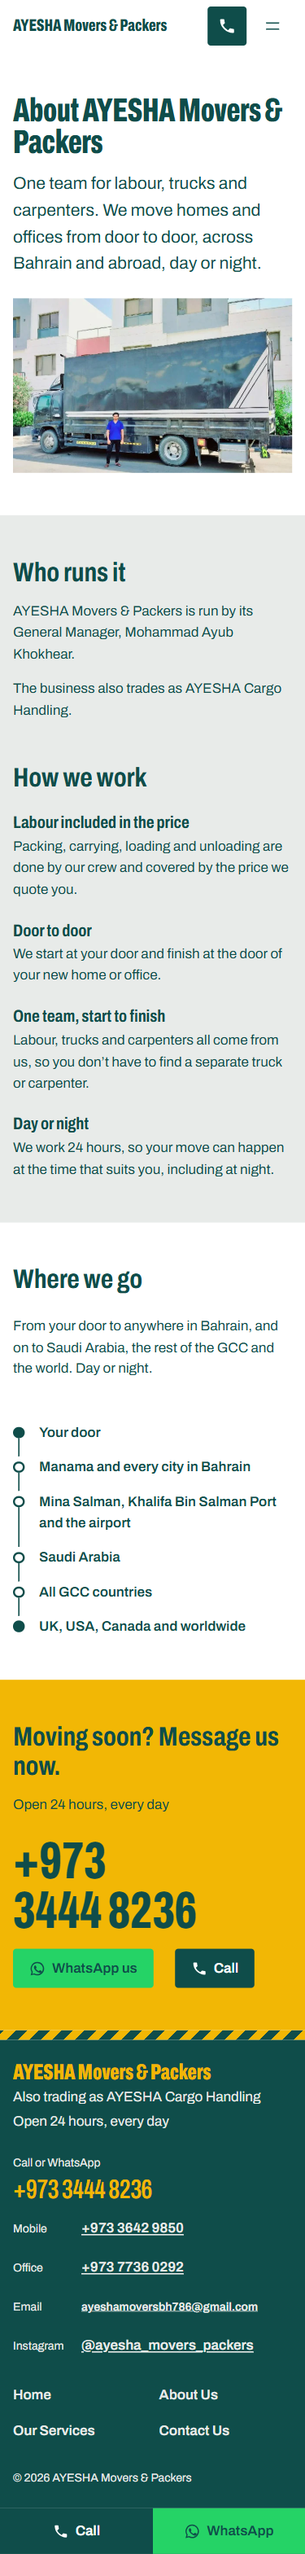
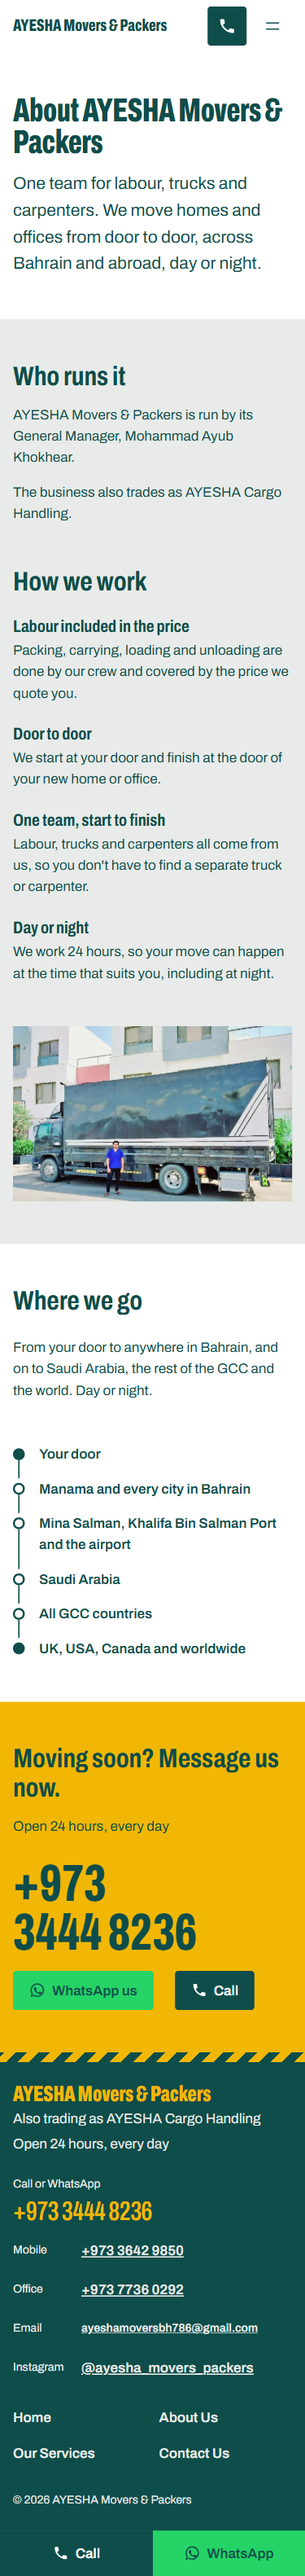
Phase 5 review: About photo after How we work on phones; leftover crops removed
Below 960px photo 15 shows after "How we work" (a second Image block,
ayesha-mobile-only) so the man isn't read as the General Manager;
desktop unchanged (ayesha-desktop-only beside the H1). AYESHA Core keeps
images with these classes lazy so the hidden copy is never downloaded.
about-375.png retaken, about.html re-exported, guide and PROGRESS updated.

diff --git a/docs/content/about.html b/docs/content/about.html
@@ -1,4 +1,4 @@
-<!-- wp:group {"tagName":"section","metadata":{"name":"Page heading"},"align":"full","className":"ayesha-section ayesha-intro ayesha-about-intro","style":{"spacing":{"padding":{"top":"var:preset|spacing|50","bottom":"var:preset|spacing|60"}}},"layout":{"type":"constrained"}} -->
+<!-- wp:group {"metadata":{"name":"Page heading"},"tagName":"section","align":"full","className":"ayesha-section ayesha-intro ayesha-about-intro","style":{"spacing":{"padding":{"top":"var:preset|spacing|50","bottom":"var:preset|spacing|60"}}},"layout":{"type":"constrained"}} -->
 <section class="wp-block-group alignfull ayesha-section ayesha-intro ayesha-about-intro" style="padding-top:var(--wp--preset--spacing--50);padding-bottom:var(--wp--preset--spacing--60)"><!-- wp:columns {"className":"ayesha-about-intro__columns","style":{"spacing":{"blockGap":{"top":"var:preset|spacing|40","left":"var:preset|spacing|50"}}}} -->
 <div class="wp-block-columns ayesha-about-intro__columns"><!-- wp:column {"width":"58.33%"} -->
 <div class="wp-block-column" style="flex-basis:58.33%"><!-- wp:heading {"level":1} -->
@@ -11,14 +11,14 @@
 <!-- /wp:column -->
 
 <!-- wp:column {"width":"41.67%","className":"ayesha-about-intro__photo"} -->
-<div class="wp-block-column ayesha-about-intro__photo" style="flex-basis:41.67%"><!-- wp:image {"id":15,"sizeSlug":"ayesha-photo","linkDestination":"none"} -->
-<figure class="wp-block-image size-ayesha-photo"><img src="http://localhost/ayesha-movers/wp-content/uploads/2026/10/large-box-truck-with-driver-560x351.webp" alt="Man in a blue shirt standing in front of a large dark box truck outside villas" class="wp-image-15"/></figure>
+<div class="wp-block-column ayesha-about-intro__photo" style="flex-basis:41.67%"><!-- wp:image {"id":15,"sizeSlug":"ayesha-photo","linkDestination":"none","metadata":{"name":"Photo (computers only; phones show the copy after How we work)"},"className":"ayesha-desktop-only"} -->
+<figure class="wp-block-image size-ayesha-photo ayesha-desktop-only"><img src="http://localhost/ayesha-movers/wp-content/uploads/2026/10/large-box-truck-with-driver-560x351.webp" alt="Man in a blue shirt standing in front of a large dark box truck outside villas" class="wp-image-15"/></figure>
 <!-- /wp:image --></div>
 <!-- /wp:column --></div>
 <!-- /wp:columns --></section>
 <!-- /wp:group -->
 
-<!-- wp:group {"tagName":"section","metadata":{"name":"Who runs it + How we work"},"align":"full","className":"is-style-concrete-panel ayesha-section ayesha-about-team","style":{"spacing":{"padding":{"top":"var:preset|spacing|60","bottom":"var:preset|spacing|60"}}},"layout":{"type":"constrained"}} -->
+<!-- wp:group {"metadata":{"name":"Who runs it + How we work"},"tagName":"section","align":"full","className":"is-style-concrete-panel ayesha-section ayesha-about-team","style":{"spacing":{"padding":{"top":"var:preset|spacing|60","bottom":"var:preset|spacing|60"}}},"layout":{"type":"constrained"}} -->
 <section class="wp-block-group alignfull is-style-concrete-panel ayesha-section ayesha-about-team" style="padding-top:var(--wp--preset--spacing--60);padding-bottom:var(--wp--preset--spacing--60)"><!-- wp:columns {"className":"ayesha-about-team__columns","style":{"spacing":{"blockGap":{"top":"var:preset|spacing|60","left":"var:preset|spacing|60"}}}} -->
 <div class="wp-block-columns ayesha-about-team__columns"><!-- wp:column {"width":"41.67%","className":"ayesha-about-who"} -->
 <div class="wp-block-column ayesha-about-who" style="flex-basis:41.67%"><!-- wp:heading -->
@@ -66,7 +66,7 @@
 <!-- /wp:heading -->
 
 <!-- wp:paragraph -->
-<p>Labour, trucks and carpenters all come from us, so you don't have to find a separate truck or carpenter.</p>
+<p>Labour, trucks and carpenters all come from us, so you don&#039;t have to find a separate truck or carpenter.</p>
 <!-- /wp:paragraph --></div>
 <!-- /wp:group -->
 
@@ -79,7 +79,11 @@
 <p>We work 24 hours, so your move can happen at the time that suits you, including at night.</p>
 <!-- /wp:paragraph --></div>
 <!-- /wp:group --></div>
-<!-- /wp:group --></div>
+<!-- /wp:group -->
+
+<!-- wp:image {"id":15,"sizeSlug":"ayesha-photo","linkDestination":"none","metadata":{"name":"Photo (phones and tablets only; computers show the copy beside the heading)"},"className":"ayesha-mobile-only ayesha-about-how__photo"} -->
+<figure class="wp-block-image size-ayesha-photo ayesha-mobile-only ayesha-about-how__photo"><img src="http://localhost/ayesha-movers/wp-content/uploads/2026/10/large-box-truck-with-driver-560x351.webp" alt="Man in a blue shirt standing in front of a large dark box truck outside villas" class="wp-image-15"/></figure>
+<!-- /wp:image --></div>
 <!-- /wp:column --></div>
 <!-- /wp:columns --></section>
 <!-- /wp:group -->

diff --git a/wp-content/themes/ayesha-movers/assets/css/theme.css b/wp-content/themes/ayesha-movers/assets/css/theme.css
@@ -1313,14 +1313,41 @@ a[href^="mailto:"] {
 	margin-block-start: var(--wp--preset--spacing--40);
 }
 
-.ayesha-about-intro__photo figure {
+.ayesha-about-intro__photo figure,
+.ayesha-about-how__photo {
 	margin: 0;
 }
 
-.ayesha-about-intro__photo img {
+.ayesha-about-intro__photo img,
+.ayesha-about-how__photo img {
 	display: block;
 	max-width: 100%;
 	height: auto;
+}
+
+.ayesha-about-how > .ayesha-about-how__photo {
+	margin-block-start: var(--wp--preset--spacing--50);
+}
+
+/* The About photo: beside the heading on computers; after "How we work" on phones and tablets.
+   Image blocks with these classes are never loaded eagerly (AYESHA Core), so the hidden copy is
+   never downloaded. The editor shows both. */
+@media (max-width: 959.98px) {
+	body:not(.editor-styles-wrapper) .ayesha-desktop-only,
+	body:not(.editor-styles-wrapper) .ayesha-about-intro__photo:not(:has(> :not(.ayesha-desktop-only))) {
+		display: none;
+	}
+
+	/* With the photo column gone, the heading column takes the full width (782-959px). */
+	body:not(.editor-styles-wrapper) .ayesha-about-intro__columns > .wp-block-column {
+		flex-basis: 100% !important;
+	}
+}
+
+@media (min-width: 960px) {
+	body:not(.editor-styles-wrapper) .ayesha-mobile-only {
+		display: none;
+	}
 }
 
 /* ---------------------------------------------------------------

diff --git a/wp-content/plugins/ayesha-core/includes/media.php b/wp-content/plugins/ayesha-core/includes/media.php
@@ -29,8 +29,8 @@ add_filter( 'wp_omit_loading_attr_threshold', 'ayesha_core_eager_image_count' );
 
 /**
  * At most one content image skips lazy loading (WordPress's default is 3), and only when it is in
- * the page's first section, i.e. on screen when the page opens (the Home hero photo, the About Us
- * photo). Every other image gets loading="lazy", so an image hidden on phones (e.g. the photo
+ * the page's first section, i.e. on screen when the page opens (the Home hero photo), and is shown on
+ * every screen size. Every other image gets loading="lazy", so an image hidden on phones (e.g. the photo
  * under the house-shifting card) is never downloaded there, and a photo far down a page (the
  * truck on Our Services) doesn't compete with the top of the page.
  *
@@ -42,26 +42,30 @@ function ayesha_core_eager_image_count() {
 		$count = 1;
 		if ( is_singular() ) {
 			$blocks = array_values( array_filter( parse_blocks( (string) get_post_field( 'post_content', get_queried_object_id() ) ), static fn( $block ) => null !== $block['blockName'] ) );
-			$count  = ( $blocks && ayesha_core_block_has_image( $blocks[0] ) ) ? 1 : 0;
+			$image  = $blocks ? ayesha_core_first_image_block( $blocks[0] ) : null;
+			// An image shown only on some screens (classes ayesha-desktop-only / ayesha-mobile-only) is
+			// hidden on the others: it must stay lazy there, or the hidden copy would be downloaded.
+			$count = ( $image && ! preg_match( '/\bayesha-(desktop|mobile)-only\b/', $image['attrs']['className'] ?? '' ) ) ? 1 : 0;
 		}
 	}
 	return $count;
 }
 
 /**
- * Whether a parsed block is, or contains, an Image block.
+ * The first Image block in a parsed block (the block itself or one inside it).
  *
  * @param array $block Parsed block.
- * @return bool
+ * @return array|null Parsed Image block, or null when there is none.
  */
-function ayesha_core_block_has_image( $block ) {
+function ayesha_core_first_image_block( $block ) {
 	if ( 'core/image' === $block['blockName'] ) {
-		return true;
+		return $block;
 	}
 	foreach ( $block['innerBlocks'] as $inner ) {
-		if ( ayesha_core_block_has_image( $inner ) ) {
-			return true;
+		$image = ayesha_core_first_image_block( $inner );
+		if ( $image ) {
+			return $image;
 		}
 	}
-	return false;
+	return null;
 }

diff --git a/wp-content/themes/ayesha-movers/patterns/about-team.php b/wp-content/themes/ayesha-movers/patterns/about-team.php
@@ -16,6 +16,13 @@ $ayesha_commitments = array(
 	array( 'Day or night', 'We work 24 hours, so your move can happen at the time that suits you, including at night.' ),
 );
 
+/*
+ * Phones and tablets show the About photo here, after "How we work", instead of above "Who runs it",
+ * so the man in it isn't read as the General Manager (open client question). Computers show the copy
+ * beside the page heading. Both copies are lazy-loaded, so the hidden one is never downloaded.
+ */
+$ayesha_photo = ayesha_theme_image_markup( 15, 'ayesha-photo', 'ayesha-mobile-only ayesha-about-how__photo', 'Photo (phones and tablets only; computers show the copy beside the heading)' );
+
 $ayesha_items = array();
 foreach ( $ayesha_commitments as $ayesha_commitment ) {
 	$ayesha_items[] = '<!-- wp:group {"className":"ayesha-reason","style":{"spacing":{"blockGap":"var:preset|spacing|20"}},"layout":{"type":"default"}} -->
@@ -51,7 +58,7 @@ $ayesha_inner = '<!-- wp:columns {"className":"ayesha-about-team__columns","styl
 
 <!-- wp:group {"metadata":{"name":"Commitments"},"className":"ayesha-reasons","layout":{"type":"default"}} -->
 <div class="wp-block-group ayesha-reasons">' . implode( "\n\n", $ayesha_items ) . '</div>
-<!-- /wp:group --></div>
+<!-- /wp:group -->' . ( '' === $ayesha_photo ? '' : "\n\n" . $ayesha_photo ) . '</div>
 <!-- /wp:column --></div>
 <!-- /wp:columns -->';
 

diff --git a/wp-content/themes/ayesha-movers/inc/pattern-parts.php b/wp-content/themes/ayesha-movers/inc/pattern-parts.php
@@ -165,9 +165,10 @@ function ayesha_theme_service_section_markup( $service ) {
  * @param int    $id        Attachment ID.
  * @param string $size      Image size slug.
  * @param string $class     Extra CSS class ('' for none).
+ * @param string $name      Name shown in the editor's List View ('' for none).
  * @return string Block markup, or '' when the photo is missing.
  */
-function ayesha_theme_image_markup( $id, $size, $class = '' ) {
+function ayesha_theme_image_markup( $id, $size, $class = '', $name = '' ) {
 	$url = wp_get_attachment_image_url( $id, $size );
 	if ( ! $url ) {
 		return '';
@@ -177,6 +178,9 @@ function ayesha_theme_image_markup( $id, $size, $class = '' ) {
 		'sizeSlug'        => $size,
 		'linkDestination' => 'none',
 	);
+	if ( '' !== $name ) {
+		$attrs['metadata'] = array( 'name' => $name );
+	}
 	if ( '' !== $class ) {
 		$attrs['className'] = $class;
 	}

diff --git a/wp-content/themes/ayesha-movers/patterns/about-intro.php b/wp-content/themes/ayesha-movers/patterns/about-intro.php
@@ -23,7 +23,7 @@
 <!-- /wp:column -->
 
 <!-- wp:column {"width":"41.67%","className":"ayesha-about-intro__photo"} -->
-<div class="wp-block-column ayesha-about-intro__photo" style="flex-basis:41.67%"><?php echo ayesha_theme_image_markup( 15, 'ayesha-photo' ); // phpcs:ignore WordPress.Security.EscapeOutput.OutputNotEscaped -- escaped in the helper. ?></div>
+<div class="wp-block-column ayesha-about-intro__photo" style="flex-basis:41.67%"><?php echo ayesha_theme_image_markup( 15, 'ayesha-photo', 'ayesha-desktop-only', 'Photo (computers only; phones show the copy after How we work)' ); // phpcs:ignore WordPress.Security.EscapeOutput.OutputNotEscaped -- escaped in the helper. ?></div>
 <!-- /wp:column --></div>
 <!-- /wp:columns --></section>
 <!-- /wp:group -->

diff --git a/PROGRESS.md b/PROGRESS.md
@@ -38,7 +38,7 @@ Main goal: get mobile visitors to WhatsApp or call in one tap, or to send a deta
 | 12 | pickup-loaded-with-household-goods | OK | Home, under the house-shifting card, from 960px only (366 x 480, natural size, WebP, lazy-loaded). Alt describes only what's visible |
 | 13 | crew-loading-wrapped-furniture | **DO NOT USE** | Appears AI-generated |
 | 14 | red-curtain-side-truck | OK | Our Services, Truck hire section (560px WebP, lazy-loaded). **Cropped in Phase 5** with WordPress's image editor to 640 x 244 (a band below the cab, so the "Globetrotter" model name on the cab is out of frame); the original is kept and can be restored in Media → Edit image → Restore image. Alt "Red curtain-side cargo truck parked on a street, seen from the side" (the brand name was removed from the alt) |
-| 15 | large-box-truck-with-driver | OK | About Us, beside the H1 (560px WebP, loads first with `fetchpriority=high`; it is the page's LCP). Alt describes the scene only; no caption |
+| 15 | large-box-truck-with-driver | OK | About Us, in two Image blocks: beside the H1 on computers (960px and up), after "How we work" on phones and tablets, so the man isn't read as the General Manager (560px WebP, both lazy-loaded; each screen downloads only the copy it shows). Alt describes the scene only; no caption |
 
 In the Media Library, the tags are prefixed to the title (`[DO NOT USE]`, `[PLACEHOLDER ONLY]`) and the reason is in the Description field.
 
@@ -111,10 +111,13 @@ In the Media Library, the tags are prefixed to the title (`[DO NOT USE]`, `[PLAC
 - 2026-10-03: Grey service bands reach the screen edges with a `border-image` outset on sections with the Grey panel style (ink overflow, no sideways scroll; `.ayesha-svc` also has `overflow-x: clip`, which keeps `position: sticky` working).
 - 2026-10-03: New template `page-sections` ("Page with sections (heading in the page)") for About Us and Our Services: the H1s ("Our services", "About AYESHA Movers & Packers") differ from the page names in the menu, so they are Heading blocks in the page instead of the post title.
 - 2026-10-03: Lazy loading: AYESHA Core now lets an image skip lazy loading only when it is in the page's first top-level block (Home hero, About Us photo). Before, the first image anywhere did, which would have loaded the Truck hire photo (far down Our Services) eagerly with `fetchpriority=high`.
-- 2026-10-03: Photo 14 cropped with WordPress's own image editor (`wp_save_image`, original kept). The editor saved the cropped main file as WebP (AYESHA Core's WebP filter) while recording a `.jpg` name; attachment 14 was pointed at the real `.webp` file (path, metadata, MIME type). Leftover files from two discarded crop attempts (`red-curtain-side-truck-e1790975923214*`, `…941735*`, `…955559*`) are unused and can be deleted from uploads.
+- 2026-10-03: Photo 14 cropped with WordPress's own image editor (`wp_save_image`, original kept). The editor saved the cropped main file as WebP (AYESHA Core's WebP filter) while recording a `.jpg` name; attachment 14 was pointed at the real `.webp` file (path, metadata, MIME type). Leftover files from three discarded crop attempts (`red-curtain-side-truck-e1790975923214*`, `…941735*`, `…955559*`) were deleted on 2026-10-03 (see below).
 - 2026-10-03: `docs/content/home-content.php` renamed to `docs/content/content.php` and extended to About Us and Our Services (`build home|about|services`, `export`, `import`).
 - 2026-10-03: Search-engine titles and descriptions for About Us and Our Services typed into the editor's Search engines panel (design plan section 7), during the temporary admin session.
 - 2026-10-03: Temporary local admin session (user-approved standing permission) created with WP-CLI for the editor tests: the cookies were written straight into a Playwright storage-state file in the scratch folder and never printed; the session was destroyed afterwards (0 sessions) and the file deleted.
+
+- 2026-10-03: Phase 5 review change (user request): on About Us below 960px, photo 15 appears after "How we work" instead of above "Who runs it", so visitors don't assume the man is the General Manager. Done with two Image blocks of photo 15 (classes `ayesha-desktop-only` beside the H1, `ayesha-mobile-only` after How we work), shown by CSS; the photo column is hidden below 960px and the heading takes the full width. AYESHA Core never loads an image with one of these classes eagerly, so the hidden copy is never downloaded (at 375, 860 and 1280 exactly one copy is requested). Desktop unchanged. Editor check (short temporary session, destroyed after: 0 sessions): About Us 31 blocks, 0 invalid.
+- 2026-10-03: Deleted the 12 leftover files (3 discarded crop attempts × main file + 3 sizes) of photo 14. None was the file of any Media Library item or used in any content; they were only listed in photo 14's edit history (`_wp_attachment_backup_sizes`), and those 9 history entries were removed with them. The `-orig` entries (the original JPEG and its 2 sizes) were kept, so Media → Edit image → Restore image still works.
 
 ## Open questions for the client
 - Price point: the site says "Low rates, with labour included" (his own selling point, no superlative). Confirm the wording
@@ -284,11 +287,12 @@ Screenshots: `docs/screenshots/phase-5/` (`services-375.png`, `about-375.png` wi
 | 13 | Images: lazy loading, nothing hidden is downloaded | Below-the-fold images lazy | Neither page hides an image on phones. Our Services, 375: no image requested at load; photo 14 (`loading="lazy"`, no `fetchpriority`) requested only once scrolled near it. About Us: photo 15 at load with `fetchpriority="high"` (it's on screen; the LCP element). Home unchanged: hero `fetchpriority="high"`, photo 12 `loading="lazy"` | Pass |
 | 14 | Lighthouse mobile, Our Services (noindex) | 90+ | Performance **95**, Accessibility **100**, Best Practices **100**, SEO **66**. LCP 2.7 s (the intro paragraph), CLS 0, TBT 0 ms | Pass (SEO 66 explained) |
 | 15 | Lighthouse desktop, Our Services | 90+ | 100 / 100 / 100 / **66**. LCP 0.5 s, CLS 0, TBT 0 | Pass (SEO 66 explained) |
-| 16 | Lighthouse mobile, About Us | 90+ | **91** / 100 / 100 / **66**. LCP 2.7 s (photo 15), CLS 0, TBT 190 ms (local server time varies between runs with WP_DEBUG on and no page cache) | Pass (SEO 66 explained) |
+| 16 | Lighthouse mobile, About Us | 90+ | **91** / 100 / 100 / **66**. LCP 2.7 s (photo 15), CLS 0, TBT 190 ms (local server time varies between runs with WP_DEBUG on and no page cache). Run before the review change that moved the photo on phones | Pass (SEO 66 explained) |
 | 17 | Lighthouse desktop, About Us | 90+ | 100 / 100 / 100 / **66**. LCP 0.6 s, CLS 0, TBT 0 | Pass (SEO 66 explained) |
 | 18 | SEO score | Explained | SEO is 66 on every run for one reason only: "Page is blocked from indexing" (`is-crawlable`), because "Discourage search engines" stays on until go-live. Phase 4 showed this audit is the only one that fails (100 with indexing allowed). The setting was **not** switched off this time, as asked | Explained |
 | 19 | `php -l` | No syntax errors | 28 PHP files (theme, plugin, docs/content script): no errors | Pass |
 | 20 | debug.log | Nothing new | 3432 bytes before and after; the last entry is from 2026-10-02 17:00 UTC (before this session) | Pass |
+| 22 | Review change: About photo on phones after "How we work" | Below 960px after How we work; desktop unchanged; hidden copy not downloaded | 375 and 860: order H1, Who runs it, How we work (4 points), photo, Where we go, CTA; top copy `display: none` and never requested; heading column full width (343 / 804 px). 1280: photo beside the H1 as before, lower copy hidden and never requested. One photo request per width. No horizontal scroll. `about-375.png` retaken; `docs/content/about.html` re-exported | Pass |
 | 21 | Fact check | Every claim has a CLAUDE.md source | See "Phase 5 fact check" below. One sentence without a source was removed while writing ("Whichever name you know us by, it is the same team and the same numbers") | Pass |
 
 #### Phase 5 fact check (every factual claim on About Us and Our Services, with its CLAUDE.md source)

diff --git a/docs/editing-guide.md b/docs/editing-guide.md
@@ -182,7 +182,7 @@ As on the Home page: each question is a **Details** block. Answer only with fact
 Open **Pages → About Us**. In **List View**: Page heading (with the photo), Who runs it + How we work, Where we go and the CTA band.
 
 - **Heading, lead paragraph, "Who runs it", "How we work"**: click any text to change it. Each of the four "How we work" points is a small heading with a paragraph under it.
-- **The photo**: click it, then **Replace** (size *Photo (560px)*). On computers it sits beside the heading, on phones under the paragraph. Keep the alt text a plain description of the scene: don't name the man or say whose truck it is until that's confirmed. No caption.
+- **The photo** is in the page twice, on purpose: "Photo (computers only)" beside the heading, and "Photo (phones and tablets only)" after "How we work". Each screen shows one of them and never downloads the other. On phones the photo comes after "How we work" so the man in it isn't taken for the General Manager. To change the photo, replace **both** copies (click each, **Replace**, size *Photo (560px)*), and keep the same alt text on both. Keep the alt text a plain description of the scene: don't name the man or say whose truck it is until that's confirmed. No caption.
 - **Where we go** and the yellow **CTA band** are the shared (synced) sections: edit them with **Edit original** (see section 5). A change shows on every page that uses them.
 - Please don't add a founding year or "years of experience" until the client has confirmed one.
 
